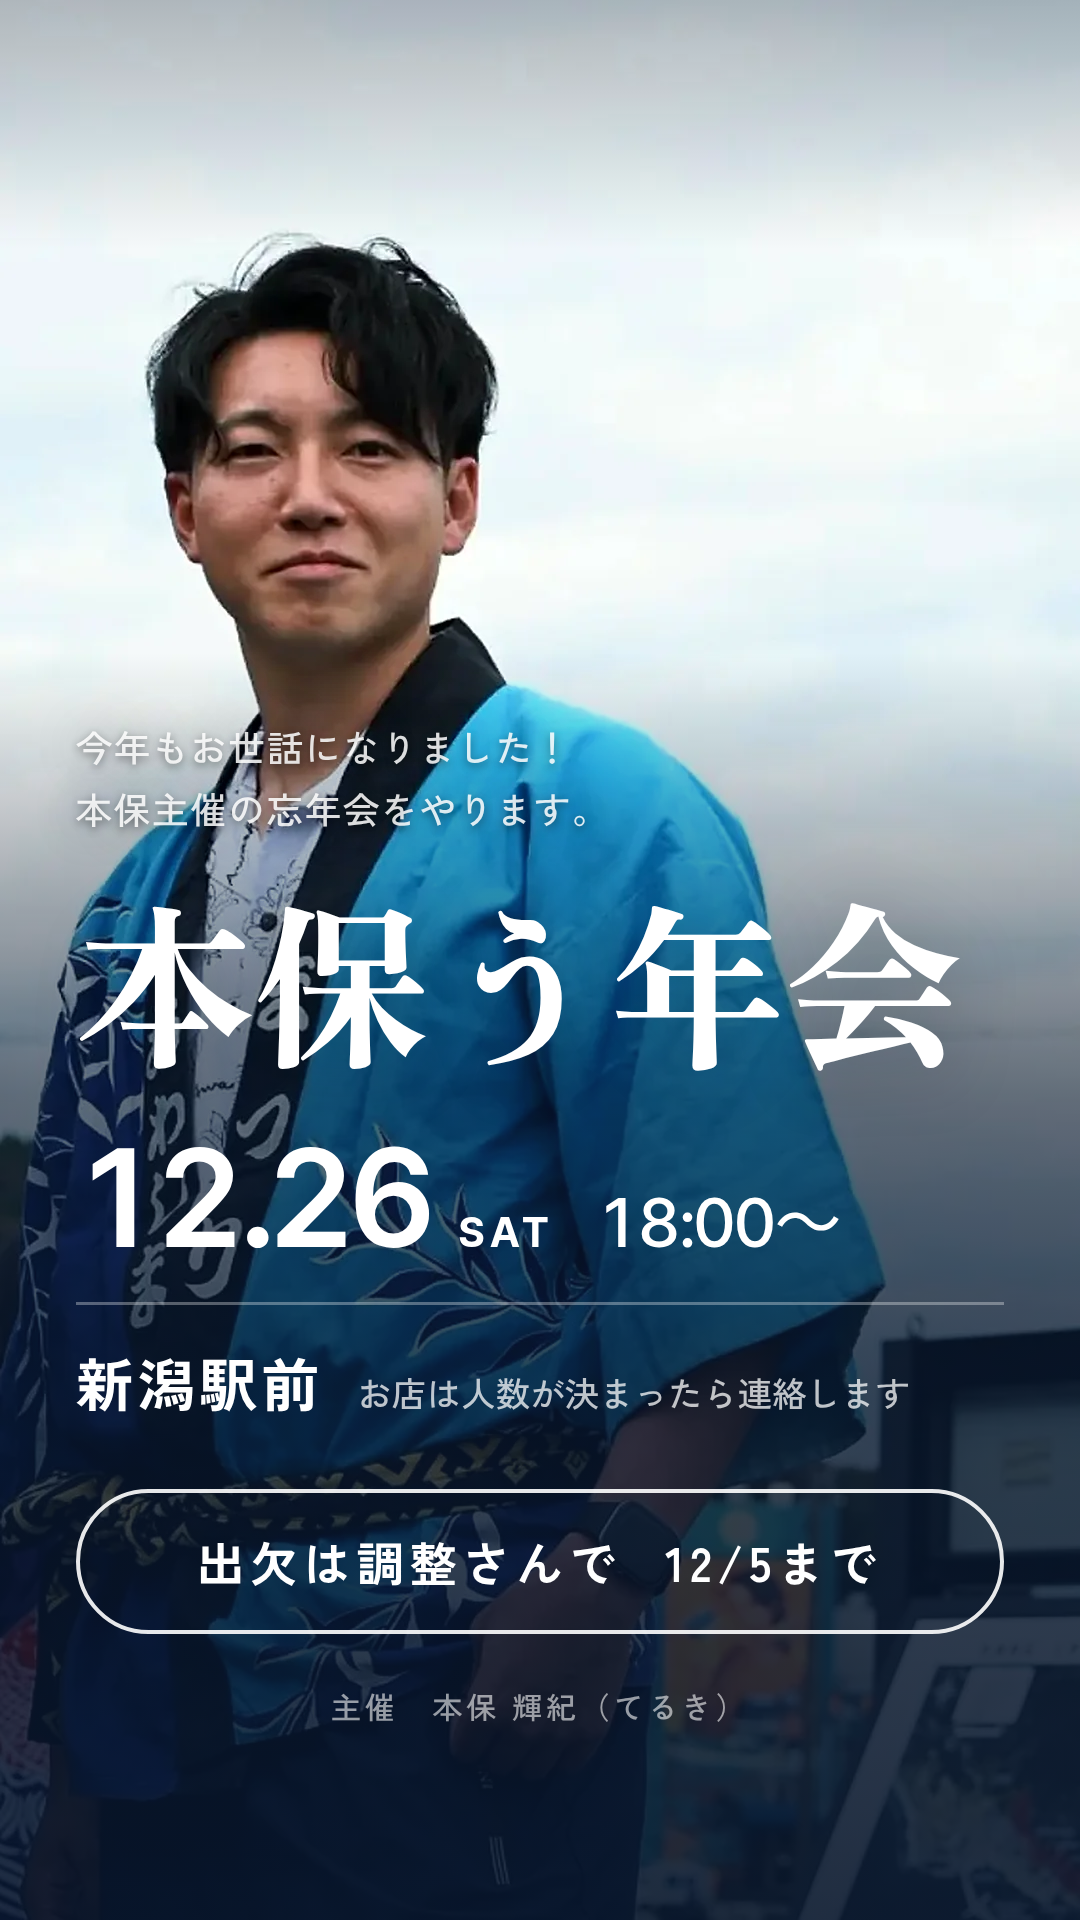
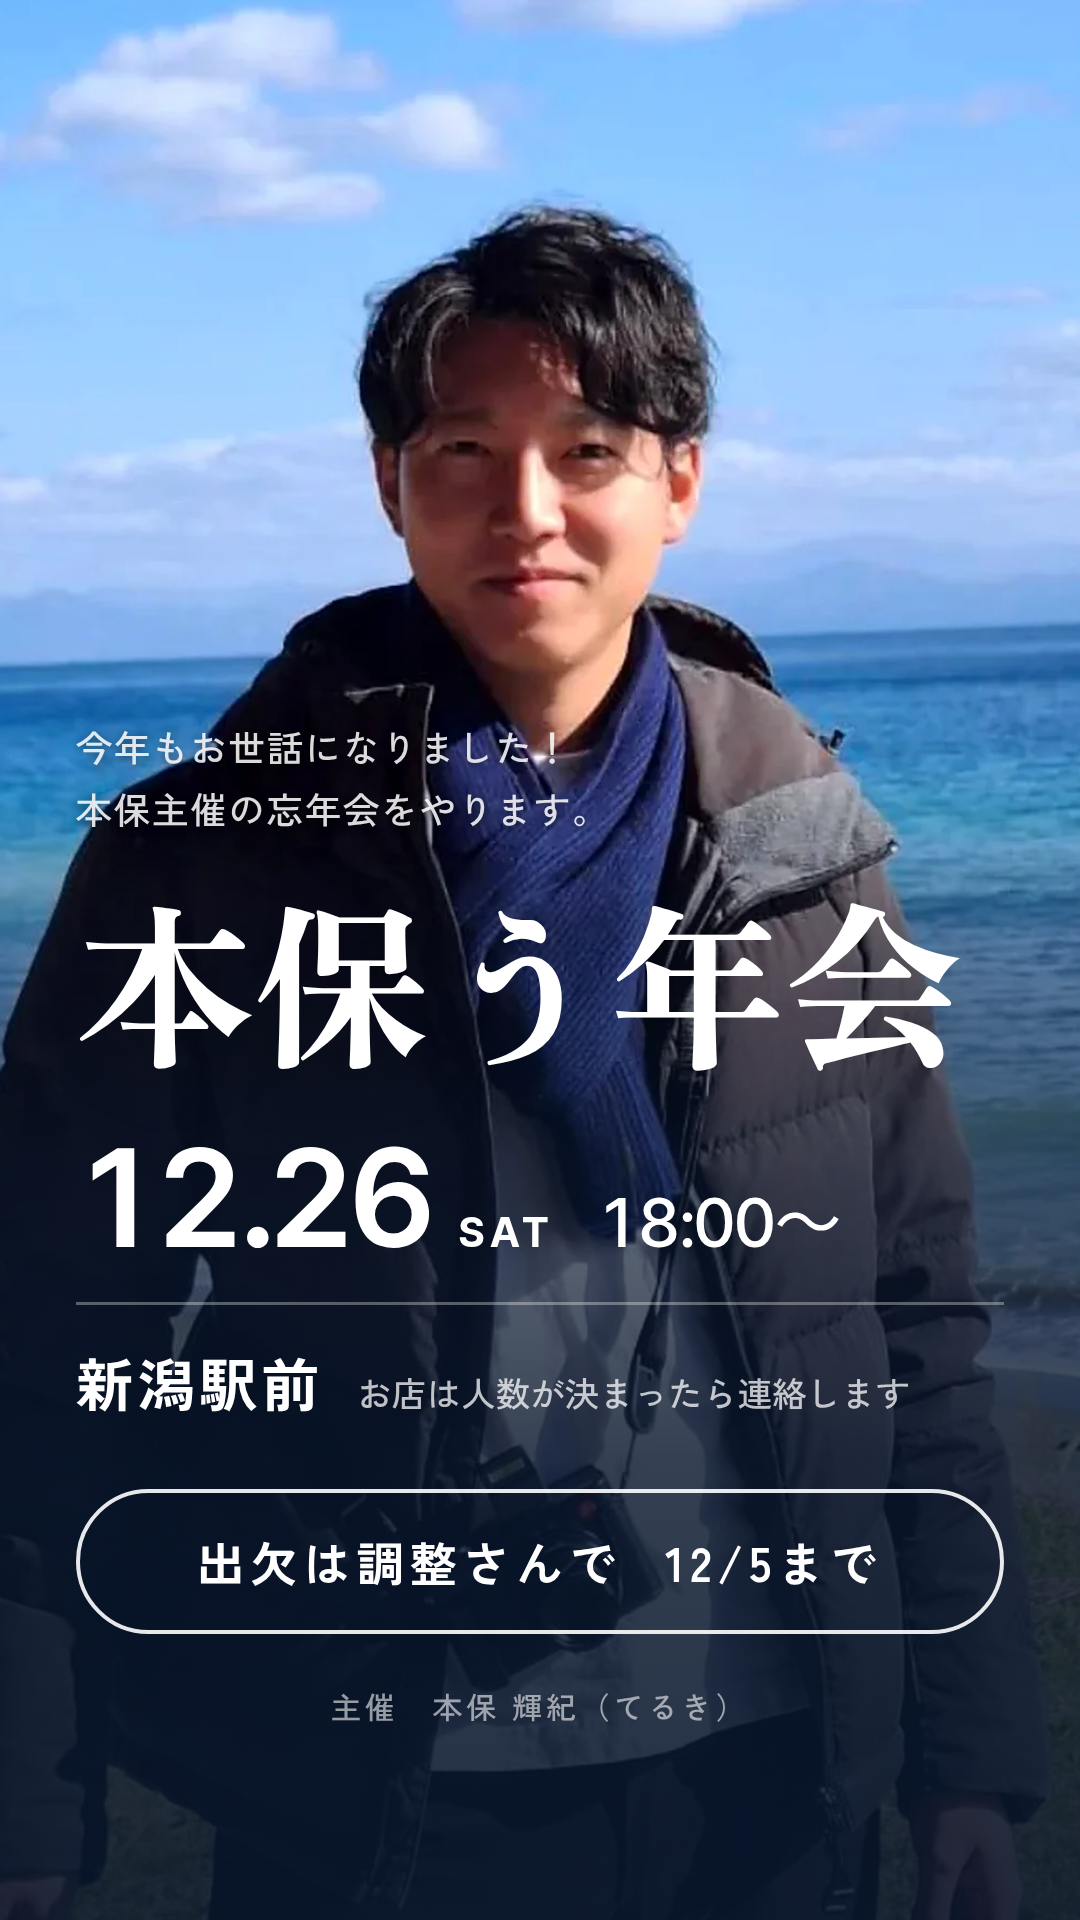
本保う年会: 写真を粟島の海辺（ダウン・紺のマフラー）に差し替え。story.png・OGP v6を更新、法被の画像とogp-v5を削除

diff --git a/bonenkai-2026/index.html b/bonenkai-2026/index.html
@@ -10,7 +10,7 @@
 <meta property="og:title" content="本保う年会｜12月26日（土）18:00〜 新潟駅前">
 <meta property="og:description" content="今年もお世話になりました！本保主催の忘年会をやります。出欠は12月5日（土）までに調整さんで。">
 <meta property="og:url" content="https://honbo-teruki.github.io/client-previews/bonenkai-2026/">
-<meta property="og:image" content="https://honbo-teruki.github.io/client-previews/bonenkai-2026/img/ogp-v5.jpg">
+<meta property="og:image" content="https://honbo-teruki.github.io/client-previews/bonenkai-2026/img/ogp-v6.jpg">
 <meta property="og:image:width" content="1200">
 <meta property="og:image:height" content="630">
 <meta name="twitter:card" content="summary_large_image">
@@ -18,16 +18,16 @@
 <link rel="icon" href="img/favicon.ico" sizes="any">
 <link rel="icon" type="image/png" href="img/favicon-48.png">
 <link rel="apple-touch-icon" href="img/apple-touch-icon.png">
-<link rel="preload" as="image" href="img/happi-portrait.webp">
+<link rel="preload" as="image" href="img/seaside-portrait.webp">
 <link rel="preconnect" href="https://fonts.googleapis.com">
 <link rel="preconnect" href="https://fonts.gstatic.com" crossorigin>
 <link href="https://fonts.googleapis.com/css2?family=Inter+Tight:wght@500;600;700&family=Zen+Old+Mincho:wght@700;900&family=Zen+Kaku+Gothic+New:wght@500;700&display=swap" rel="stylesheet">
-<link rel="stylesheet" href="style.css?v=7">
+<link rel="stylesheet" href="style.css?v=8">
 </head>
 <body>
 <div class="backdrop" aria-hidden="true"></div>
 <main class="story">
-  <img class="photo" src="img/happi-portrait.webp" width="1080" height="1994" alt="本保輝紀">
+  <img class="photo" src="img/seaside-portrait.webp" width="1080" height="1920" alt="本保輝紀">
   <div class="shade" aria-hidden="true"></div>
 
   <div class="content">

diff --git a/bonenkai-2026/style.css b/bonenkai-2026/style.css
@@ -21,13 +21,11 @@ body{
 }
 .photo{
   position:absolute; inset:0; width:100%; height:100%;
-  object-fit:cover; object-position:30% 100%; z-index:-2;
+  object-fit:cover; object-position:50% 100%; z-index:-2;
 }
 .shade{
   position:absolute; inset:0; z-index:-1;
-  background:
-    linear-gradient(to bottom, rgba(8,22,44,.30) 0%, rgba(8,22,44,0) 13%),
-    linear-gradient(to bottom, rgba(8,22,44,0) 34%, rgba(8,22,44,.32) 45%, rgba(8,22,44,.62) 57%, rgba(8,22,44,.8) 72%, rgba(8,22,44,.9) 100%);
+  background:linear-gradient(to bottom, rgba(8,22,44,0) 40%, rgba(8,22,44,.34) 50%, rgba(8,22,44,.64) 62%, rgba(8,22,44,.82) 76%, rgba(8,22,44,.9) 100%);
 }
 
 .content{
@@ -94,7 +92,7 @@ body{
 @media (min-aspect-ratio:3/4) and (min-width:600px){
   .backdrop{
     display:block; position:fixed; inset:-60px; z-index:-1;
-    background:url(img/happi-blur.webp) center/cover no-repeat;
+    background:url(img/seaside-blur.webp) center/cover no-repeat;
     filter:blur(36px) brightness(.5) saturate(1.15); transform:scale(1.08);
   }
   body{background:#0a1220}
@@ -103,4 +101,8 @@ body{
     aspect-ratio:9/16; border-radius:22px;
     box-shadow:0 30px 80px rgba(0,0,0,.45), 0 0 0 1px rgba(255,255,255,.06);
   }
+}
+/* 9:16に近い横長めの画面では、写真を少し上へ寄せて顔とメモの間を空ける */
+@container (min-aspect-ratio: 53/100){
+  .photo{height:109%; inset:auto 0 0 0}
 }
